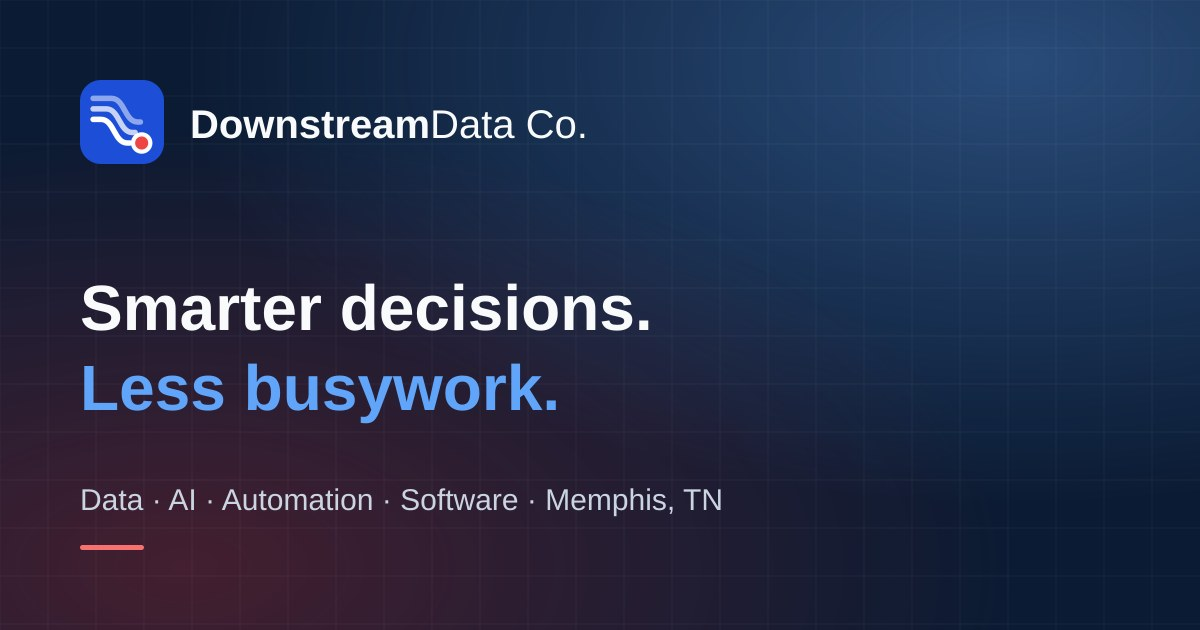
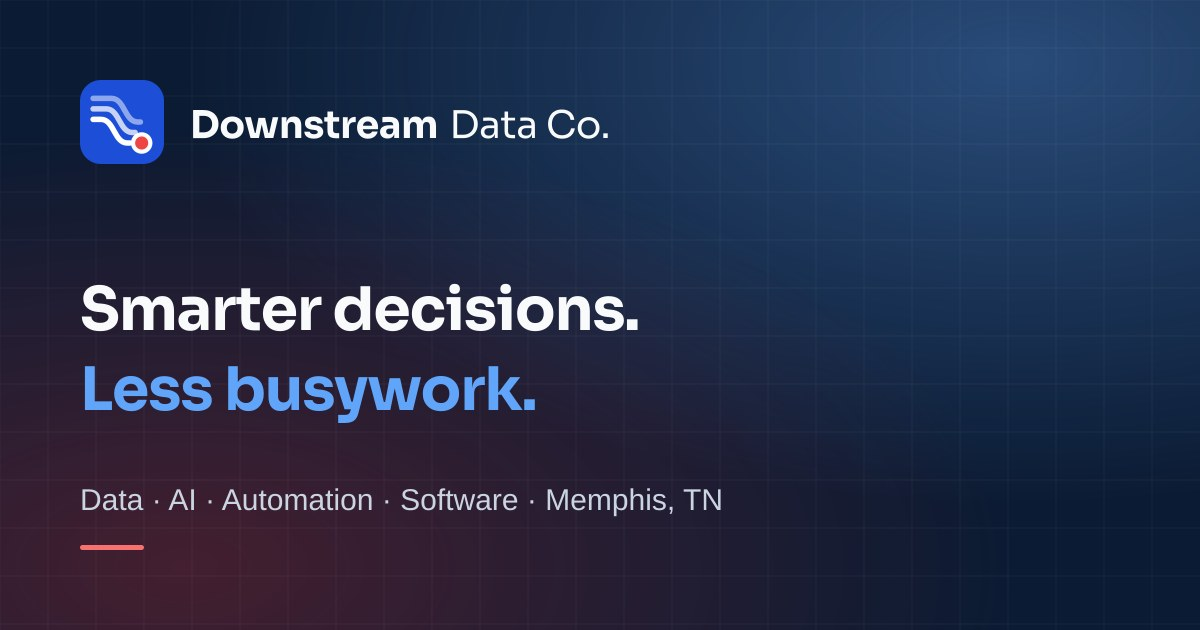
Use Sora for headings and the company name
- Self-hosted Sora 400/600/700 (SIL OFL, license included) as --headerFont,
  applied to headings, the logo wordmark and heading-style labels; body stays Roboto
- Preload Sora 700 for the header wordmark
- Fix Roboto 900 @font-face that was mislabeled as weight 700, which made
  bold body text render in the black weight
- Social share image re-rendered with the Sora wordmark and headline

Claude-Session: https://claude.ai/code/session_0199oidjHc4GMQ1efpyZPG3X

Changed region(s): [[0.0617, 0.4524, 0.555, 0.5429], [0.0617, 0.573, 0.4625, 0.6937], [0.1542, 0.1508, 0.5242, 0.2413]]

diff --git a/src/assets/less/root.less b/src/assets/less/root.less
@@ -39,7 +39,7 @@
 		/* 60px - 100px top and bottom */
 		--sectionPadding: clamp(3.75rem, 7.82vw, 6.25rem) 1rem;
 
-		--headerFont: "Roboto", Arial, sans-serif;
+		--headerFont: "Sora", "Roboto", Arial, sans-serif;
 		--bodyFont: "Roboto", Arial, sans-serif;
 	}
 
@@ -323,11 +323,38 @@
 		src: local(""), url("/assets/fonts/roboto-v29-latin-700.woff2") format("woff2"), /* Chrome 26+, Opera 23+, Firefox 39+ */ url("/assets/fonts/roboto-v29-latin-700.woff") format("woff"); /* Chrome 6+, Firefox 3.6+, IE 9+, Safari 5.1+ */
 	}
 
+	/* sora-400 - latin (headings + company name) - SIL Open Font License, see sora-LICENSE.txt */
+	@font-face {
+		font-style: normal;
+		font-family: "Sora";
+		font-weight: 400;
+		font-display: swap;
+		src: url("/assets/fonts/sora-latin-400-normal.woff2") format("woff2");
+	}
+
+	/* sora-600 - latin (headings + company name) - SIL Open Font License, see sora-LICENSE.txt */
+	@font-face {
+		font-style: normal;
+		font-family: "Sora";
+		font-weight: 600;
+		font-display: swap;
+		src: url("/assets/fonts/sora-latin-600-normal.woff2") format("woff2");
+	}
+
+	/* sora-700 - latin (headings + company name) - SIL Open Font License, see sora-LICENSE.txt */
+	@font-face {
+		font-style: normal;
+		font-family: "Sora";
+		font-weight: 700;
+		font-display: swap;
+		src: url("/assets/fonts/sora-latin-700-normal.woff2") format("woff2");
+	}
+
 	/* roboto-900 - latin */
 	@font-face {
 		font-style: normal;
 		font-family: "Roboto";
-		font-weight: 700;
+		font-weight: 900;
 		font-display: swap;
 		src: local(""), url("/assets/fonts/roboto-v29-latin-900.woff2") format("woff2"), /* Chrome 26+, Opera 23+, Firefox 39+ */ url("/assets/fonts/roboto-v29-latin-900.woff") format("woff"); /* Chrome 6+, Firefox 3.6+, IE 9+, Safari 5.1+ */
 	}
@@ -2342,5 +2369,26 @@
 		background-color: #fef3c7;
 		border-top: 1px solid #fcd34d;
 		pointer-events: none;
+	}
+}
+
+/* Heading font (Sora) for heading-style text that isn't an h1-h6 element */
+@media only screen and (min-width: 0px) {
+	.cs-title,
+	.cs-int-title,
+	.cs-logo-name,
+	.cs-river-node,
+	.cs-stat,
+	.cs-name {
+		font-family: var(--headerFont);
+	}
+
+	.cs-title,
+	.cs-int-title {
+		letter-spacing: -0.02em;
+	}
+
+	.cs-logo-name {
+		letter-spacing: -0.01em;
 	}
 }

diff --git a/src/_includes/layouts/base.html b/src/_includes/layouts/base.html
@@ -32,6 +32,7 @@
         <!-- Preloads -->
         <link rel="preload" as="font" type="font/woff2" href="/assets/fonts/roboto-v29-latin-regular.woff2" crossorigin>
         <link rel="preload" as="font" type="font/woff2" href="/assets/fonts/roboto-v29-latin-700.woff2" crossorigin>
+        <link rel="preload" as="font" type="font/woff2" href="/assets/fonts/sora-latin-700-normal.woff2" crossorigin>
 
         <!-- Sitewide Stylesheets and Scripts -->
         <link rel="stylesheet" href="/assets/css/root.css">
